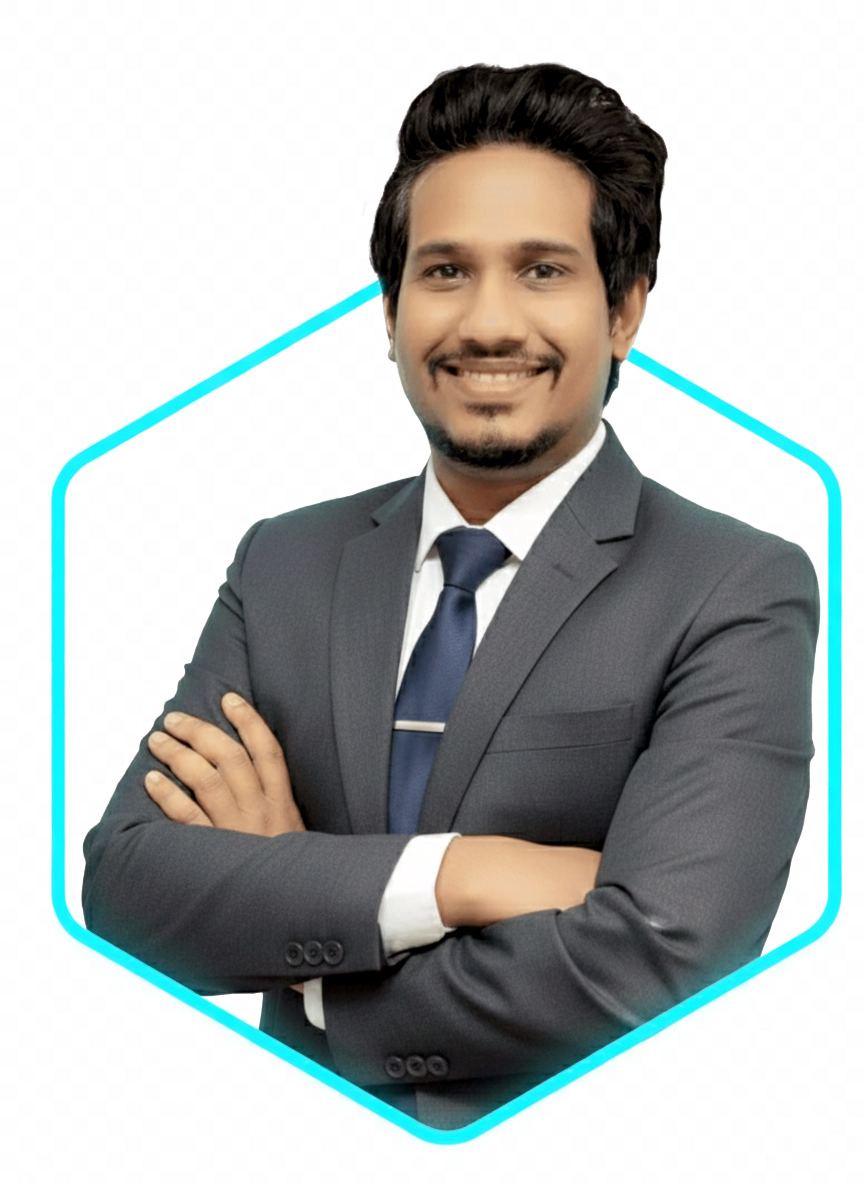
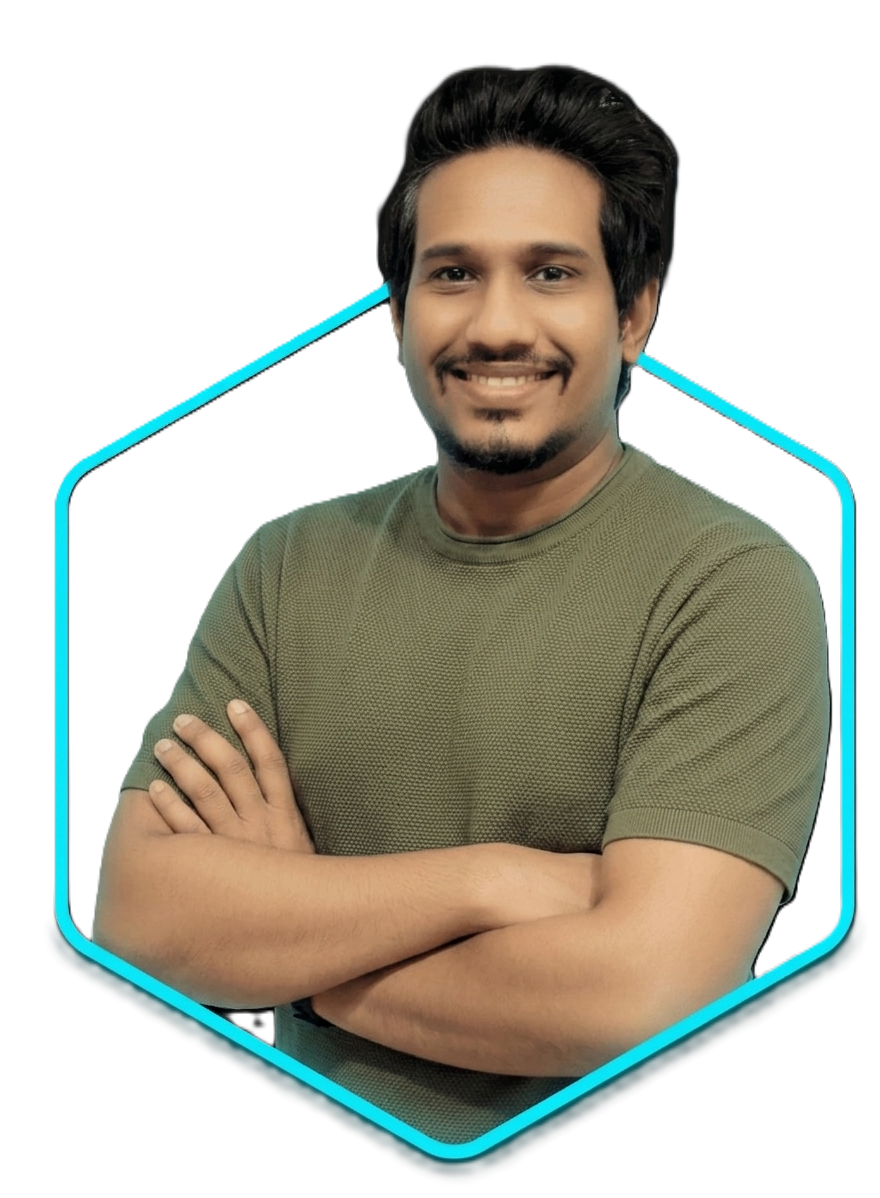
Front Image Changed

diff --git a/index.html b/index.html
@@ -85,7 +85,7 @@
 
 
     <div class="home-img">
-      <img src="images/home.png" alt="">
+      <img src="images/homeR.png" alt="">
     </div>
   </section>
 
@@ -93,7 +93,7 @@
   <!-- about section design -->
   <section class="about" id="about">
     <div class="about-img">
-      <img src="images/about.png" alt="">
+      <img src="images/aboutR_Horizantal.png" alt="">
     </div>
 
     <div class="about-content">
@@ -435,16 +435,19 @@
       </div>
       <div class="pdf-modal-body singlish-converter-body">
         <div class="text-area-container" style="position: relative;">
-          <div style="display:flex; justify-content:space-between; align-items:center; width:100%; margin-bottom:0.5rem;">
+          <div
+            style="display:flex; justify-content:space-between; align-items:center; width:100%; margin-bottom:0.5rem;">
             <label for="singlishInput" style="margin-bottom:0;">Type in Singlish</label>
             <i class='bx bx-smile' id="emojiBtn" title="Insert Emoji" onclick="toggleEmojiPicker(event)"
               style="cursor:pointer; color:var(--main-color); font-size: 2.2rem;"></i>
           </div>
           <textarea id="singlishInput" placeholder="ex: aayubowan..." onkeyup="startText()"
             oninput="startText()"></textarea>
-          <div id="emojiPickerWrapper" style="display: none; position: absolute; right: 0; top: 35px; z-index: 2000; width: 250px; background: var(--bg-color); border: 1px solid var(--main-color); border-radius: 8px; padding: 10px; box-shadow: 0 4px 10px rgba(0,0,0,0.5);">
-            <div id="nativeEmojiGrid" style="display: flex; flex-wrap: wrap; gap: 10px; font-size: 2rem; justify-content: space-between;">
-                <!-- Emojis will be dynamically added here -->
+          <div id="emojiPickerWrapper"
+            style="display: none; position: absolute; right: 0; top: 35px; z-index: 2000; width: 250px; background: var(--bg-color); border: 1px solid var(--main-color); border-radius: 8px; padding: 10px; box-shadow: 0 4px 10px rgba(0,0,0,0.5);">
+            <div id="nativeEmojiGrid"
+              style="display: flex; flex-wrap: wrap; gap: 10px; font-size: 2rem; justify-content: space-between;">
+              <!-- Emojis will be dynamically added here -->
             </div>
           </div>
         </div>
@@ -478,7 +481,8 @@
         <div class="selected-files" id="compressSelectedPdfInfo"></div>
       </div>
       <div class="pdf-modal-footer">
-        <button class="btn" id="compressPdfBtn" style="width: 100%; display: none;" onclick="processCompressPdf()">Compress & Download</button>
+        <button class="btn" id="compressPdfBtn" style="width: 100%; display: none;"
+          onclick="processCompressPdf()">Compress & Download</button>
       </div>
     </div>
   </div>
